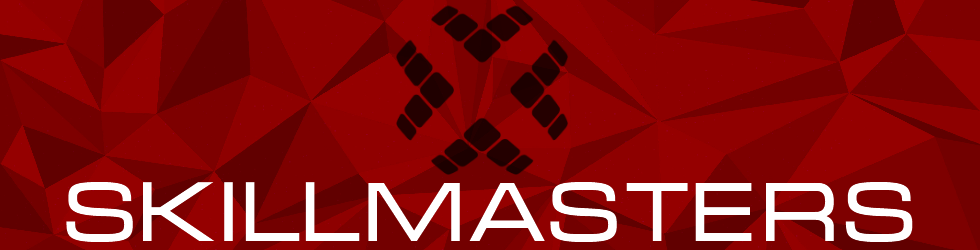
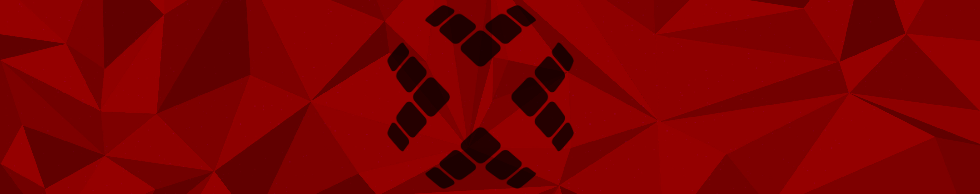
Update design a bit

diff --git a/css/style.css b/css/style.css
@@ -8,7 +8,7 @@ body {
 
 body {
     line-height: 1.5em;
-    font-family: Arial, Helvetica, sans-serif;
+    font-family: monospace, sans-serif;
     font-size: 0.75em;
     color: #999;
     background: #272525 url(../images/bg_header.jpg) repeat-x;
@@ -98,7 +98,7 @@ hr.hr-margin {
 
 #header {
     width: 980px;
-    height: 250px;
+    height: 194px;
     background: url(../images/header.png) no-repeat;
 }
 
@@ -116,15 +116,18 @@ hr.hr-margin {
     margin: 0px;
     padding: 20px 0 0 15px;
     list-style: none;
+    text-align: center;
+}
+
+#menu ul li {
+    display: inline-block;
 }
 
 #menu ul li a {
-    display: inline;
     color: #999;
-    float: left;
     padding: 0 20px;
     text-align: center;
-    font-size: 12px;
+    font-size: 1.2em;
     font-weight: bold;
     text-align: center;
     text-decoration: none;
